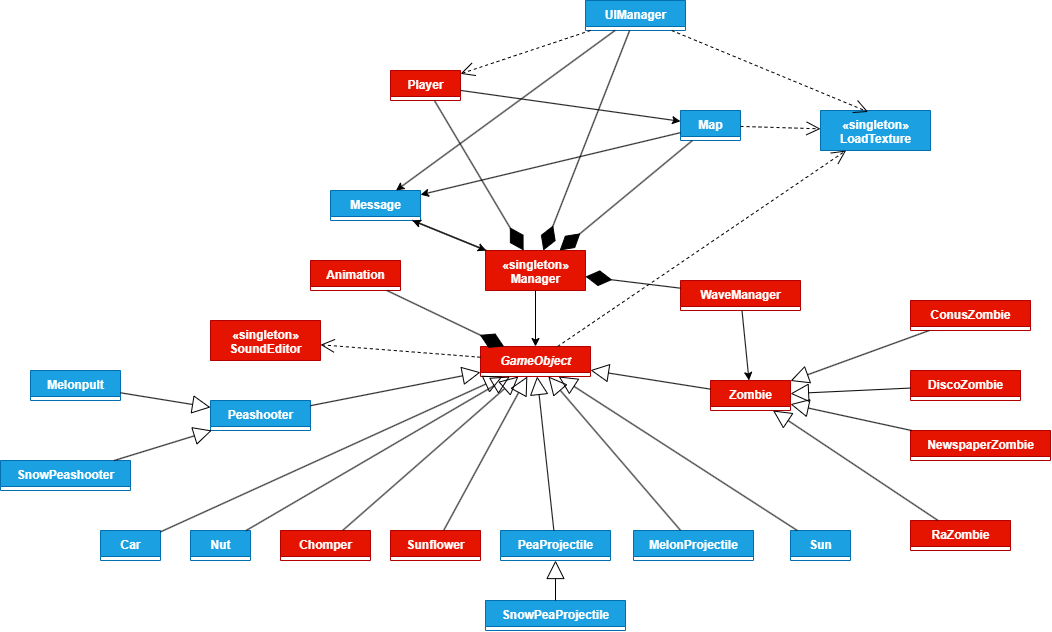
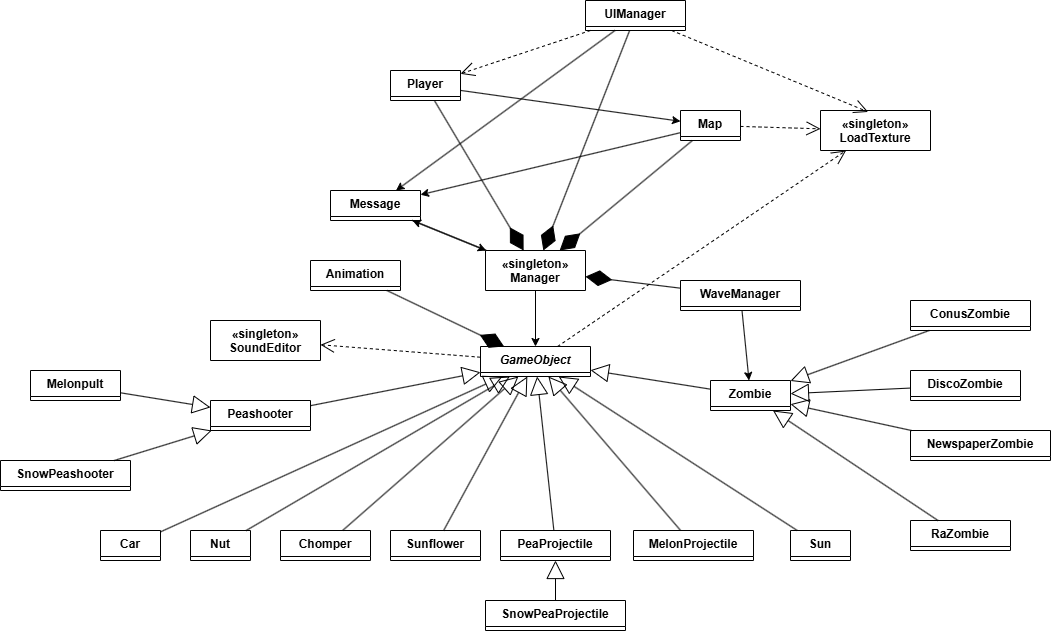
Поправки в документации

diff --git a/README.md b/README.md
@@ -76,9 +76,6 @@
 
 Ниже представлена диаграмма классов проекта, демонстрирующая зависимости между основными сущностями игры.
 
-- 🟦 Синим цветом обозначены классы, реализованные **CTTAPTAH**.
-- 🟥 Красным – классы, реализованные **DmitriiJFH**.
-
 ### Основная диаграмма
 ![class_diagram](diagrams/class_diagram.png)
 